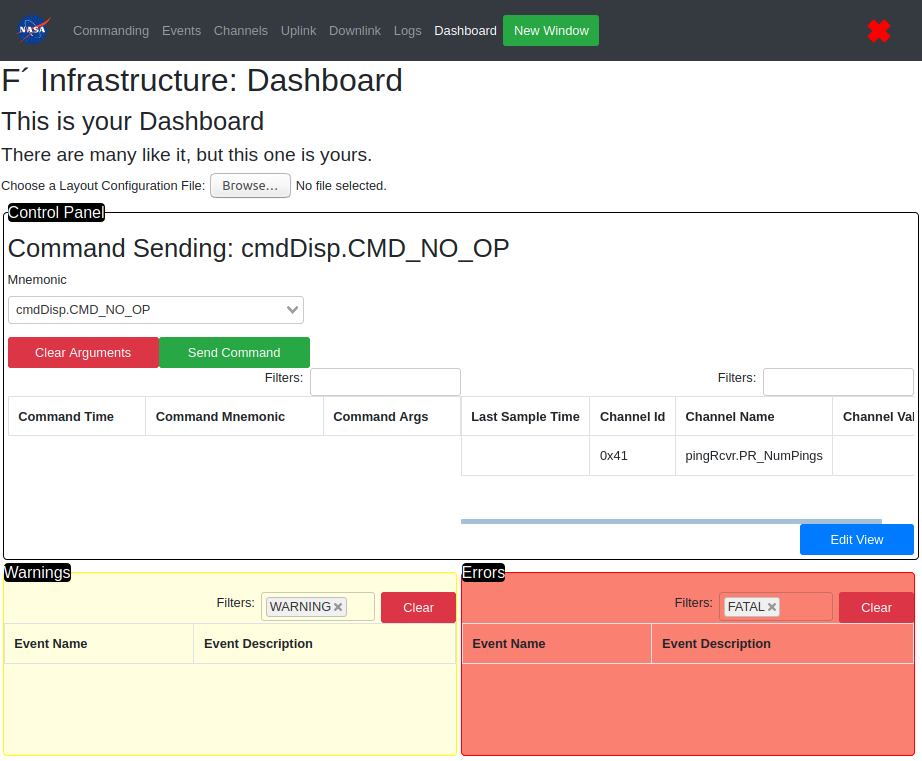
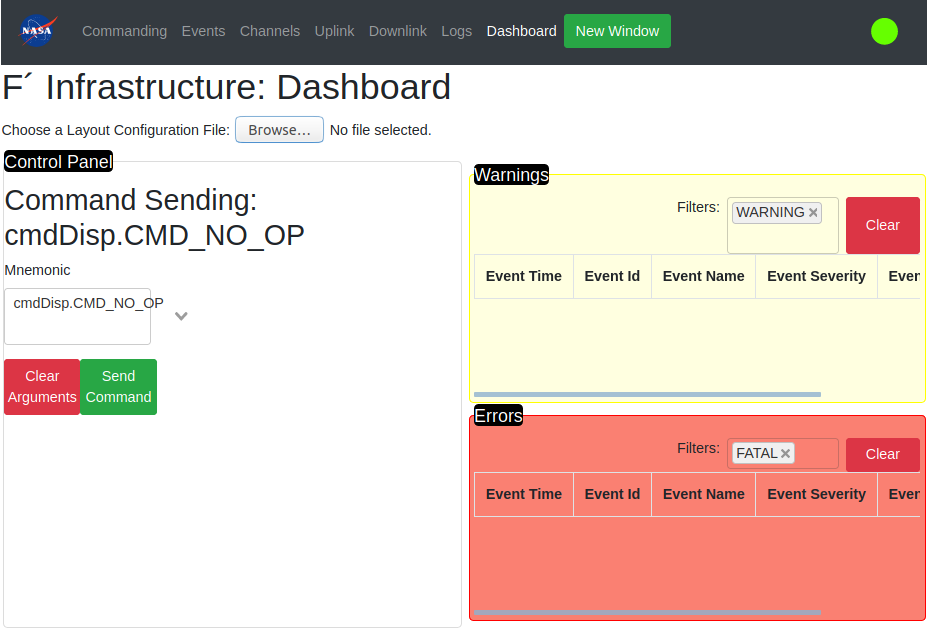
Added pictures to GDS user guide

diff --git a/docs/gds/GDS_INTRODUCTION.md b/docs/gds/GDS_INTRODUCTION.md
@@ -1,5 +1,7 @@
 # A Brief Guide to the F´ GDS
 
+![](./img/gds_gui_events.png)
+
 This guide will give you a quick introduction to what the F´ GDS is and how you can use it. If you're interested in developing for the GDS instead, check out our [GDS developer information](../../Gds/README.md). If you want to, you can also [use F´ with your own GDS]() (TODO: Add this link) instead of the built-in one (TODO: Fact check).
 
 - [What is the GDS?](#what-is-the-gds)
@@ -50,11 +52,11 @@ By default, this command needs to be run in a deployment folder so the GDS knows
 
 Starting the F´ GDS like this should bring up a new menu in your browser, like so:
 
-![]()
+![](./img/gds_gui_channels.png)
 
 What does this screen mean? Let's go through it, piece by piece.
 
-Across the top of the menu is a series of tabs: "Commands", "Events", etc. Each of those tabs represent a piece of the GDS's functionality that you can use, which opens up below when you click on it. We'll go through each tab's functions in a lot more detail soon.
+Across the top of the menu is a series of tabs: "Commanding", "Events", etc. Each of those tabs represent a piece of the GDS's functionality that you can use, which opens up below when you click on it. We'll go through each tab's functions in a lot more detail soon.
 
 To the right of those tabs is a "New Window" button; if you want to open a new GUI window that will be connected to the same GDS (say, to use 2 monitors for testing purposes), it'll do that for you.
 
@@ -64,31 +66,39 @@ There's also a NASA logo on the far left. It doesn't do anything right now, but 
 
 The tabs contain the bulk of the GDS's functionality, though; let's take a look at each one.
 
-#### Commands
+#### Commanding
 
-![]()
+![](./img/gds_gui_commanding.png)
 
-This contains the items needed to send commands to the spacecraft. All available commands are listed in the "Mnemonic" dropdown box, in `<COMPONENT>.<COMMAND>` format, where you can select or search for a command. If the selected command takes any arguments, they'll appear below, where you can type them in (TODO: How to know when an argument is invalid?). When pressed, the "Send Command" button will try to transmit the selected command with any arguments you've added to the spacecraft, while "Clear Arguments" will reset the arguments you've changed back to their default values.
+This contains the items needed to send commands to the spacecraft. All available commands are listed in the "Mnemonic" dropdown box, in `<COMPONENT>.<COMMAND>` format, where you can select or search for a command. If the selected command takes any arguments, they'll appear below, where you can type them in; invalid argument values will be outlined in red (TODO: How to know what the value should be when it's flagged as incorrect?). When pressed, the "Send Command" button will try to transmit the selected command with any arguments you've added to the spacecraft, while "Clear Arguments" will reset the arguments you've changed back to their default values.
 
 Below this, the "Command History" table will record all the commands you've *tried* sending with their associated arguments (even if the command didn't actually succeed). To search for a set of commands, you can type something into the "Filters" box and press enter to only show rows containing that text. You can sort the rows by one of the table headers (e.g. "Command Time") by clicking on that header.
 
 #### Events
 
-![]()
+![](./img/gds_gui_events.png)
 
 This will display a table of all the "Events" that have happened on the spacecraft and been received by the GDS. An event is an informational, warning, or error message the spacecraft wants to record or notify us about, such as a command being received/succeeding, an error happening during a command, or a warning that the spacecraft has detected.
 
-TODO: Explain event colors, event severities
+Each event is color-coded based on its "Event Severity;" there are 7 different kinds of severities (TODO: Fact check each description):
+
+-   COMMAND (Green): Used to signify a command has been received or completed by the spacecraft (TODO: Isn't this also what ACTIVITY_HI is used for sometimes?)
+-   ACTIVITY_LO (TODO: Color?): TODO: Difference between hi/lo activities?
+-   ACTIVITY_HI (Blue):
+-   WARNING_LO (Yellow): Used for minor, non-critical warnings
+-   WARNING_HI (Orange): Used for critical warnings, such as a command failing to execute
+-   DIAGNOSTIC (TODO: Color?): TODO: What are diagnostic events used for?
+-   FATAL (Red): Used for catastrophic failures that may signify the spacecraft has stopped working or has encountered major issues
 
 Just like the "Command History" table, these items can all be filtered or sorted by header; additionally, a "Clear" button will clear the table, opening it up for new events.
 
 #### Channels
 
-![]()
+![](./img/gds_gui_channels.png)
 
 This displays an updating table of all the "Channels", or telemetry data, the GDS has received from the spacecraft; by default, only telemetry channels that the GDS has received data for are shown, with the rest of the channels hidden (even if they're open and may receive data later). Only the most recently received value for each channel (received at "Last Sample Time") is shown.
 
-![]()
+![](./img/gds_gui_channels_edit.png)
 
 If you want to view a full list of all open channels available, you can click on the "Edit View" button to see them (channels that haven't received a value yet will have blank sample times). If you only want certain channels to be visible, you can tick the checkbox next to a channels name to show it; any unchecked channels will be hidden, and you can save these changes by clicking the "Done" button to go back to the regular channel view. If you want to save which channels you have shown/hidden, click on the "Export" button to save your list of open channel names. You can then "Import" this file later on to only show these channels.
 
@@ -96,13 +106,19 @@ Just like the other tables, you can sort or filter these channel items.
 
 #### Uplink
 
+![](./img/gds_gui_uplink.png)
+
 TODO: Not sure I understand uplinking
 
 #### Downlink
 
+![](./img/gds_gui_downlink.png)
+
 TODO: Not sure I understand downlinking
 
 #### Logs
+
+![](./img/gds_gui_logs.png)
 
 Here, you can select and view one of the plain-text log files where the GDS is writing down all its activities as it goes. There should be 5 log files to choose from (TODO: Fact check):
 
@@ -115,6 +131,8 @@ Here, you can select and view one of the plain-text log files where the GDS is w
 TODO: Unsure if there's more to logging or if that's all?
 
 #### Dashboard
+
+![](./img/dashboard_header.png)
 
 The dashboard lets users combine the tools from the other tabs on a single screen, designing their own custom interface for working with the GDS. You can learn more about how this works on the [Dashboard guide](./GUI_DASHBOARD.md).
 
